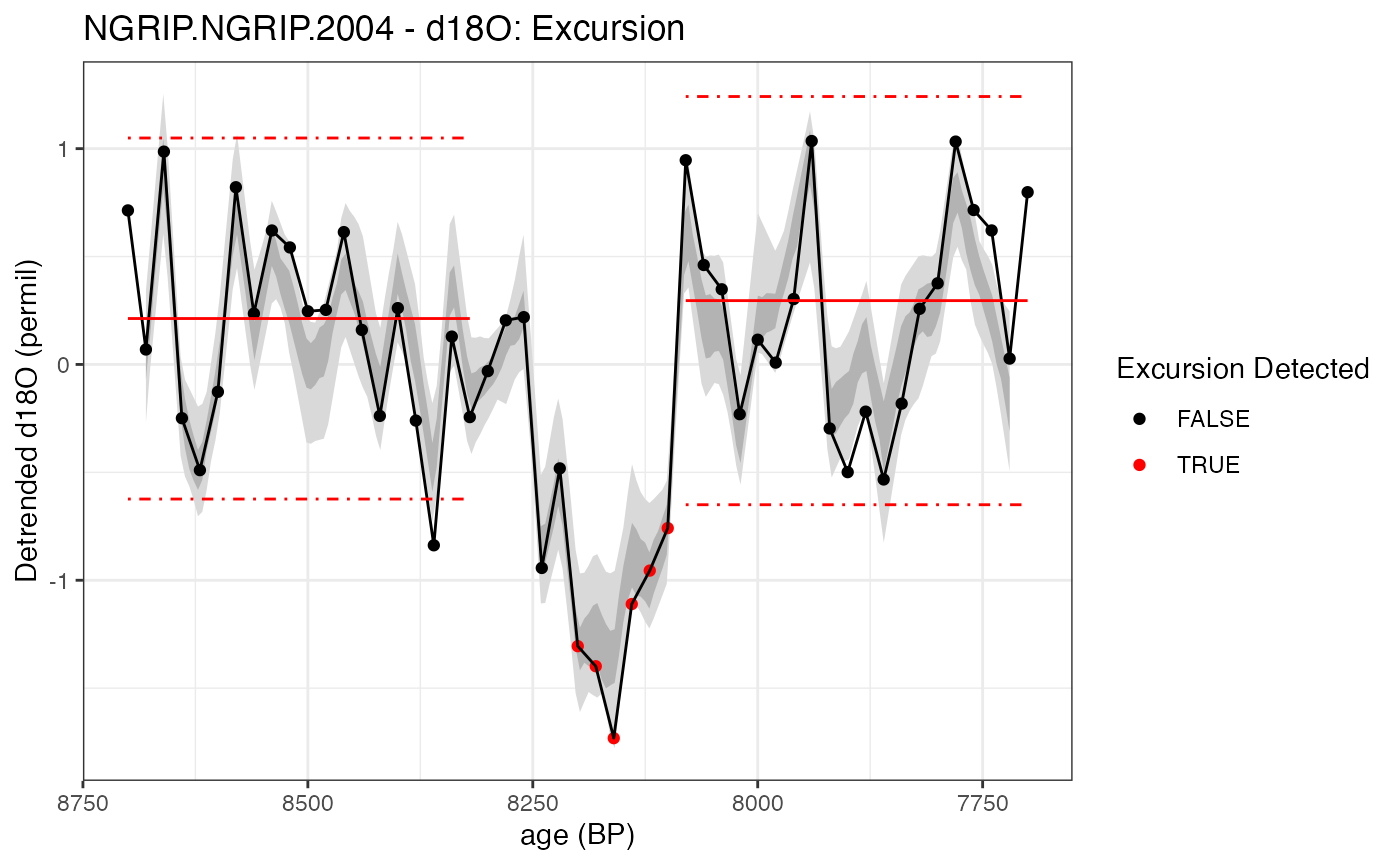
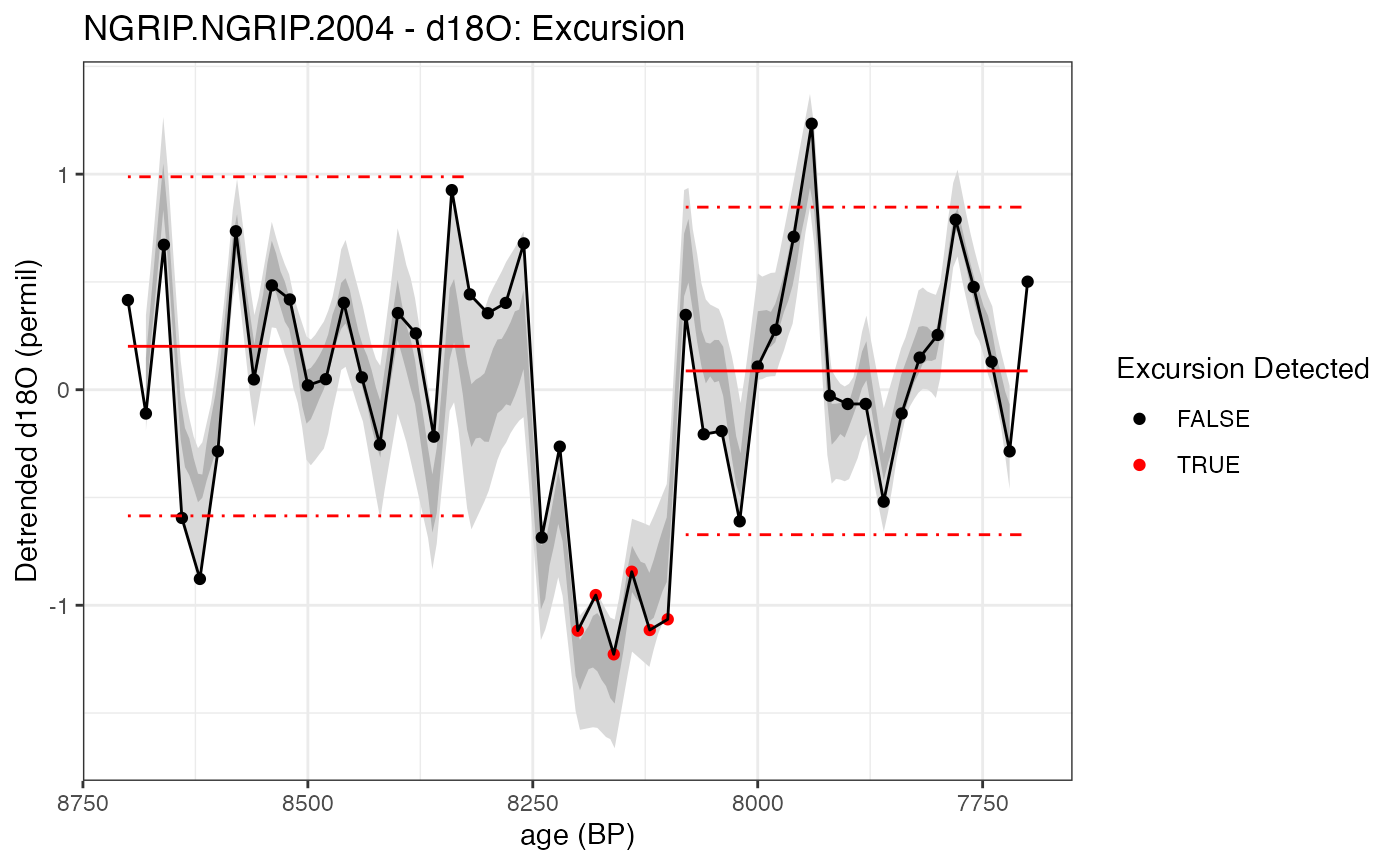
Deploying to gh-pages from @ LinkedEarth/actR@765b78cd74d992f69fcd3fbbf548039a705ebc4e 🚀

Changed region(s): [[0.0921, 0.1249, 0.7371, 0.874], [0.0307, 0.437, 0.0614, 0.4682]]

diff --git a/articles/detectShift.html b/articles/detectShift.html
@@ -120,7 +120,7 @@ null.hypothesis.n]. * specifies a minimum segment length of 3000y</p>
 <span><span class="co">#&gt; Selected SST_from_uk37_ensemble</span></span>
 <span><span class="co">#&gt; <span style="color: #BB00BB;">timeUnits is at least partially absent in the input data</span></span></span>
 <span><span class="co"><span style="color: #BB00BB;">#&gt; </span><span style="color: #00BB00;">Testing null hypothesis with 50 simulations, each with 50 ensemble members. </span></span></span>
-<span><span class="co"><span style="color: #00BB00;">#&gt; </span><span style="color: #0000BB;">This will probably take about 2 minutes</span></span></span>
+<span><span class="co"><span style="color: #00BB00;">#&gt; </span><span style="color: #0000BB;">This will probably take about 3 minutes</span></span></span>
 <span><span class="co"><span style="color: #0000BB;">#&gt; </span></span></span></code></pre></div>
 <p>This lines generates a textual summary of the output:</p>
 <div class="sourceCode" id="cb3"><pre class="downlit sourceCode r">
@@ -128,14 +128,13 @@ null.hypothesis.n]. * specifies a minimum segment length of 3000y</p>
 <span><span class="co">#&gt; <span style="font-weight: bold;">GeoB7926_2.Kim.2012 - SST_from_uk37_ensemble: Shift in Mean results</span></span></span>
 <span><span class="co"><span style="font-weight: bold;">#&gt; </span><span style="color: #555555;">Searched for Shift in Mean with a minimum segment length of </span><span style="color: #555555; font-weight: bold;">8000</span><span style="color: #555555;"> years, summarizing the results over windows of 500 years.</span></span></span>
 <span><span class="co"><span style="color: #555555;">#&gt; </span></span></span>
-<span><span class="co">#&gt; <span style="font-weight: bold;">Overall result: Detected </span><span style="color: #00BB00; font-weight: bold;">4</span><span style="font-weight: bold;"> </span><span style="font-weight: bold; font-style: italic;">Shift in Mean</span><span style="font-weight: bold;"> event(s) that were significant at the alpha &lt; 0.05 level</span></span></span>
-<span><span class="co"><span style="font-weight: bold;">#&gt; </span><span style="color: #949494;"># A tibble: 4 × 3</span></span></span>
+<span><span class="co">#&gt; <span style="font-weight: bold;">Overall result: Detected </span><span style="color: #00BB00; font-weight: bold;">3</span><span style="font-weight: bold;"> </span><span style="font-weight: bold; font-style: italic;">Shift in Mean</span><span style="font-weight: bold;"> event(s) that were significant at the alpha &lt; 0.05 level</span></span></span>
+<span><span class="co"><span style="font-weight: bold;">#&gt; </span><span style="color: #949494;"># A tibble: 3 × 3</span></span></span>
 <span><span class="co">#&gt;   time_start time_end empirical_pvalue</span></span>
 <span><span class="co">#&gt;        <span style="color: #949494; font-style: italic;">&lt;dbl&gt;</span>    <span style="color: #949494; font-style: italic;">&lt;dbl&gt;</span>            <span style="color: #949494; font-style: italic;">&lt;dbl&gt;</span></span></span>
-<span><span class="co">#&gt; <span style="color: #BCBCBC;">1</span>     <span style="text-decoration: underline;">18</span>727.   <span style="text-decoration: underline;">19</span>227.                0</span></span>
-<span><span class="co">#&gt; <span style="color: #BCBCBC;">2</span>      <span style="text-decoration: underline;">9</span>227.    <span style="text-decoration: underline;">9</span>727.                0</span></span>
-<span><span class="co">#&gt; <span style="color: #BCBCBC;">3</span>     <span style="text-decoration: underline;">26</span>727.   <span style="text-decoration: underline;">27</span>227.                0</span></span>
-<span><span class="co">#&gt; <span style="color: #BCBCBC;">4</span>     <span style="text-decoration: underline;">36</span>727.   <span style="text-decoration: underline;">37</span>227.                0</span></span>
+<span><span class="co">#&gt; <span style="color: #BCBCBC;">1</span>     <span style="text-decoration: underline;">18</span>227.   <span style="text-decoration: underline;">18</span>727.                0</span></span>
+<span><span class="co">#&gt; <span style="color: #BCBCBC;">2</span>     <span style="text-decoration: underline;">26</span>727.   <span style="text-decoration: underline;">27</span>227.                0</span></span>
+<span><span class="co">#&gt; <span style="color: #BCBCBC;">3</span>     <span style="text-decoration: underline;">10</span>227.   <span style="text-decoration: underline;">10</span>727.                0</span></span>
 <span><span class="co">#&gt; <span style="font-weight: bold;">Time uncertainty considered?</span> <span style="color: #00BB00;">TRUE</span> Time ensemble supplied (n = 100)</span></span>
 <span><span class="co">#&gt; <span style="font-weight: bold;">Paleo uncertainty considered?</span> <span style="color: #00BB00;">TRUE</span> Values ensemble supplied (n = 2500)</span></span>
 <span><span class="co">#&gt; Error propagation ensemble members = 50</span></span>

diff --git a/articles/detectExcursion.html b/articles/detectExcursion.html
@@ -208,7 +208,7 @@ significant.</p>
 <span><span class="co">#&gt; <span style="font-weight: bold;">NGRIP.NGRIP.2004 - d18O: Excursion test results</span></span></span>
 <span><span class="co"><span style="font-weight: bold;">#&gt; </span><span style="color: #555555;">Searched for </span><span style="color: #555555; font-weight: bold;">negative</span><span style="color: #555555;"> excursions in a </span><span style="color: #555555; font-weight: bold;">200</span><span style="color: #555555;"> year window around </span><span style="color: #555555; font-weight: bold;">8200</span><span style="color: #555555;"> BP, with reference windows of </span><span style="color: #555555; font-weight: bold;">400</span><span style="color: #555555;"> years on either side.</span></span></span>
 <span><span class="co"><span style="color: #555555;">#&gt; </span></span></span>
-<span><span class="co">#&gt; <span style="font-weight: bold;">Overall result: Empirical p-value = </span><span style="color: #00BB00; font-weight: bold;">0</span></span></span>
+<span><span class="co">#&gt; <span style="font-weight: bold;">Overall result: Empirical p-value = </span><span style="color: #00BB00; font-weight: bold;">0.02</span></span></span>
 <span><span class="co"><span style="font-weight: bold;">#&gt; </span>Time uncertainty considered? <span style="color: #BB0000;">FALSE</span></span></span>
 <span><span class="co">#&gt; Paleo uncertainty considered? <span style="color: #00BB00;">TRUE</span></span></span>
 <span><span class="co">#&gt; Error propagation ensemble members = 50</span></span>

diff --git a/articles/neotoma.html b/articles/neotoma.html
@@ -144,8 +144,8 @@ can than run it through Bacon or another algorithm in
 <span><span class="co">#&gt; [1] "Found it! Moving on..."</span></span>
 <span><span class="co">#&gt; [1] "Found it! Moving on..."</span></span>
 <span><span class="co">#&gt; [1] "plotting your chron ensemble. This make take a few seconds..."</span></span>
-<span><span class="co">#&gt; Scale for 'x' is already present. Adding another scale for 'x', which will</span></span>
-<span><span class="co">#&gt; replace the existing scale.</span></span></code></pre></div>
+<span><span class="co">#&gt; Scale for <span style="color: #00BB00;">x</span> is already present.</span></span>
+<span><span class="co">#&gt; Adding another scale for <span style="color: #00BB00;">x</span>, which will replace the existing scale.</span></span></code></pre></div>
 <p><img src="neotoma_files/figure-html/plotChron-1.png"><!-- --></p>
 </div>
 </div>

diff --git a/news/index.html b/news/index.html
@@ -62,7 +62,7 @@
 
     <div class="section level2">
 <h2 class="page-header" data-toc-text="0.1.5" id="actr-015">actR 0.1.5<a class="anchor" aria-label="anchor" href="#actr-015"></a></h2>
-<ul><li>merged in calcualte deltas - introducing the <code><a href="../reference/summarizeChangepointMeanChanges.html">summarizeChangepointMeanChanges()</a></code>
+<ul><li>merged in calculate deltas - introducing the <code><a href="../reference/summarizeChangepointMeanChanges.html">summarizeChangepointMeanChanges()</a></code>
 </li>
 <li>More fixes for R &gt;=4.2.0 sensitivity to multiple conditionals.</li>
 </ul></div>
